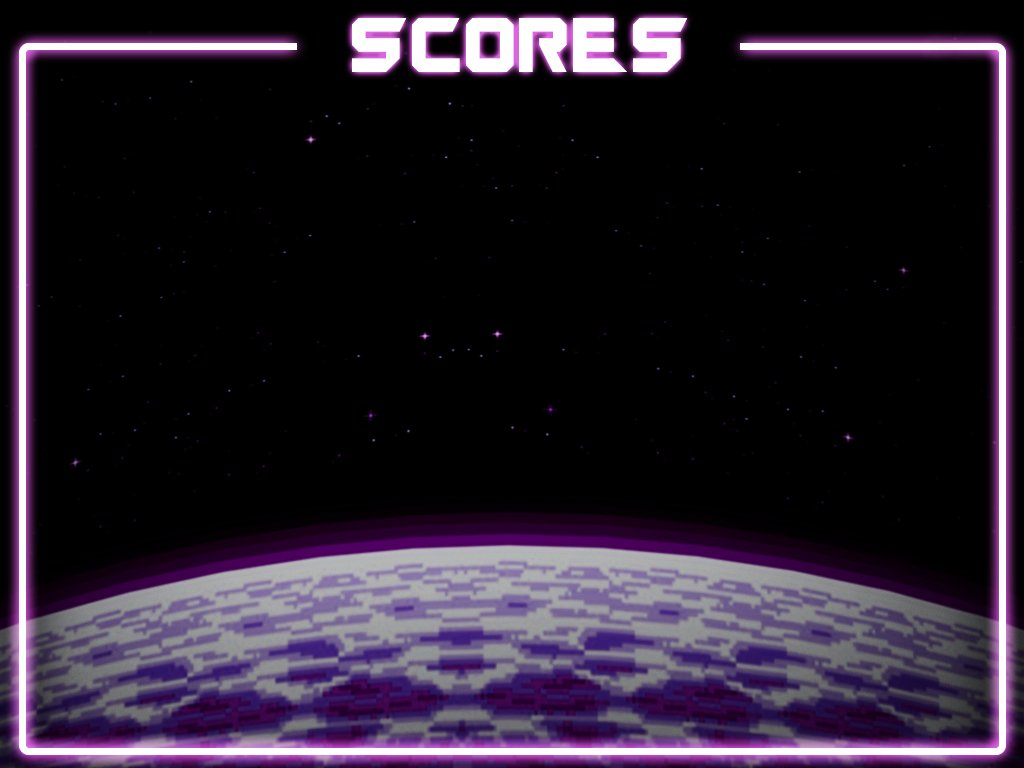
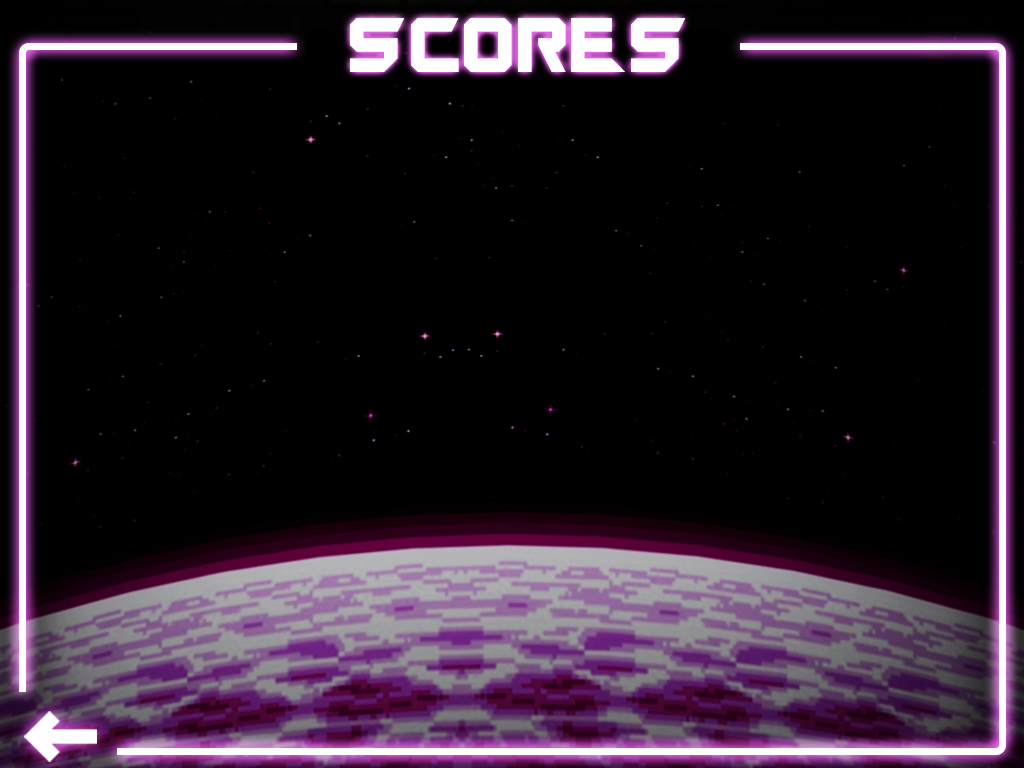
menu complet avec tout les fond

diff --git a/Jeu avec forme final/Launcher.py b/Jeu avec forme final/Launcher.py
@@ -16,13 +16,10 @@ def launcher():
     font_b = pygame.font.SysFont('arial', 70)
     img_menu = pygame.image.load("start.jpg").convert()
     background_menu = pygame.transform.scale(img_menu, (1024,768))
-    #background = pygame.draw.rect(screen, [59, 55, 55], [0, 0, 1024, 768], 0)
 
     #mid_x = pygame.draw.rect(screen, [255, 0, 0], [1024/2, 0, 2, 768], 0)
     #mid_y = pygame.draw.rect(screen, [255, 0, 0], [0, 768/2, 1024, 2], 0)
 
-
-    #font_titre = font_b.render("CybeRush180 by KotProd", 1, (0,0,0))
     font_start = font_a.render("START", 1, (255,255,255))
     font_score = font_a.render("SCORE", 1, (255,255,255))
     font_credit = font_a.render("CREDITS", 1, (255,255,255))
@@ -50,7 +47,6 @@ def launcher():
     silver = pygame.transform.scale(img_silver, (100,100))
     bronze = pygame.transform.scale(img_bronze, (100,100))
     score_background = pygame.transform.scale(img_background, (1024,768))
-    #background = pygame.draw.rect(score, [25, 6, 45], [0, 0, 1024, 768], 0)
 
     retour = pygame.draw.rect(screen, [255, 0, 0], [0, 720, 125, 50], 0)
 
@@ -99,10 +95,7 @@ def launcher():
     font_b_credit = pygame.font.SysFont('arial', 30)
     font_c_credit = pygame.font.SysFont('arial', 25)
 
-    retour = pygame.draw.rect(screen, [255, 0, 0], [0, 720, 125, 50], 0)
-
-    titre = font_a_credit.render("KOTPROD", 1, (255,255,255))
-    retour = font_b_credit.render("RETOUR", 1, (134,210,48))
+    img_credit = pygame.image.load("score.jpg").convert()
 
     credit_un= font_c_credit.render("GAME DESIGN. . . . . . . . . . . . . . . . . . . . . . . . . . . . . . . . . . . . . . . . . . . . . . . . . . .KotProd", 1, (255,255,255))
     credit_deux = font_c_credit.render("ANIMATIONS. . . . . . . . . . . . . . . . . . . . . . . . . . . . . . . . . . . . . . . . . . . . . . . . .Jérémi Delaire", 1, (255,255,255))
@@ -133,35 +126,29 @@ def launcher():
     while run:
         screen.fill([0, 0, 0])
         screen.blit(background_menu, (0,0))
-        #screen.blit(font_titre, ((screen_width+screen_width-275)/2, screen_height-500))
-        screen.blit(font_start, (x, y))
+        screen.blit(font_start, (x+5, y))
         screen.blit(font_score, (x, y+100))
-        screen.blit(font_credit, (x, y+200))
-        screen.blit(font_quit, (x, y+300))
+        screen.blit(font_credit, (x-10, y+200))
+        screen.blit(font_quit, (x-10, y+300))
         pygame.display.flip()
         for event in pygame.event.get():
             if event.type==pygame.QUIT:
                 run=False
             elif event.type==pygame.MOUSEBUTTONDOWN and event.button == 1 and event.pos[0] > x and event.pos[0] < x+100 and event.pos[1] < y+300+50 and event.pos[1] > y+300:
                 run=False
-                print("quit")
             elif event.type==pygame.MOUSEBUTTONDOWN and event.button == 1 and event.pos[0] > x and event.pos[0] < x+100 and event.pos[1] < y+200+50 and event.pos[1] > y+200:
                 credit = True
                 accueil = False
-                print("credit")
             elif event.type==pygame.MOUSEBUTTONDOWN and event.button == 1 and event.pos[0] > x and event.pos[0] < x+100 and event.pos[1] < y+100+50 and event.pos[1] > y+100:
                 score = True
                 accueil = False
-                print("score")
             elif event.type==pygame.MOUSEBUTTONDOWN and event.button == 1 and event.pos[0] > x and event.pos[0] < x+100 and event.pos[1] < y+50 and event.pos[1] > y:
-                print("start")
                 score = main()
     #--------------------------------------------------------------------------------
     #affichage des crédits
         if accueil==False and credit==True:
             screen.fill([0, 0, 0])
-            background_credit = pygame.draw.rect(screen, [25, 6, 45], [0, 0, 1024, 768], 0)
-            
+            screen.blit(img_credit, (0,0))
         while accueil==False and credit==True:
             for event in pygame.event.get():
                 if event.type==pygame.QUIT:
@@ -170,8 +157,6 @@ def launcher():
                 elif event.type==pygame.MOUSEBUTTONDOWN and event.button == 1 and event.pos[0] > 0 and event.pos[0] < 125 and event.pos[1] < 770 and event.pos[1] > 720:
                     accueil = True
                     credit = False
-            screen.blit(retour, (10,725))
-            screen.blit(titre, (420, 0))
             screen.blit(credit_un, (100, 80))
             screen.blit(credit_deux, (100, 120))
             screen.blit(credit_trois, (100, 160))
@@ -182,14 +167,13 @@ def launcher():
             screen.blit(credit_huit, (100, 360))
             screen.blit(credit_neuf, (100, 400))
             screen.blit(credit_dix, (100, 440))
-            screen.blit(bravo, (250, 550))
+            screen.blit(bravo, (250, 500))
             pygame.display.flip()
     #--------------------------------------------------------------------------------
     #affichage des scores
         if accueil==False and score==True:
            screen.fill([0, 0, 0])
            screen.blit(score_background, (0,0))
-           #background_score = pygame.draw.rect(screen, [25, 6, 45], [0, 0, 1024, 768], 0)
         while accueil==False and score==True:
             for event in pygame.event.get():
                 if event.type==pygame.QUIT:
@@ -198,10 +182,6 @@ def launcher():
                 elif event.type==pygame.MOUSEBUTTONDOWN and event.button == 1 and event.pos[0] > 0 and event.pos[0] < 125 and event.pos[1] < 768 and event.pos[1] > 720:
                     accueil = True
                     score = False                   
-            #screen.blit(gold, 400,400)
-            #screen.blit(silver, 262,198)
-            #screen.blit(bronze, 262,276)
-            screen.blit(font_return, (10,720))
             screen.blit(score_categorie,(160, 80))
             screen.blit(place_un, (190,160))
             screen.blit(nom_un, (490,160))
